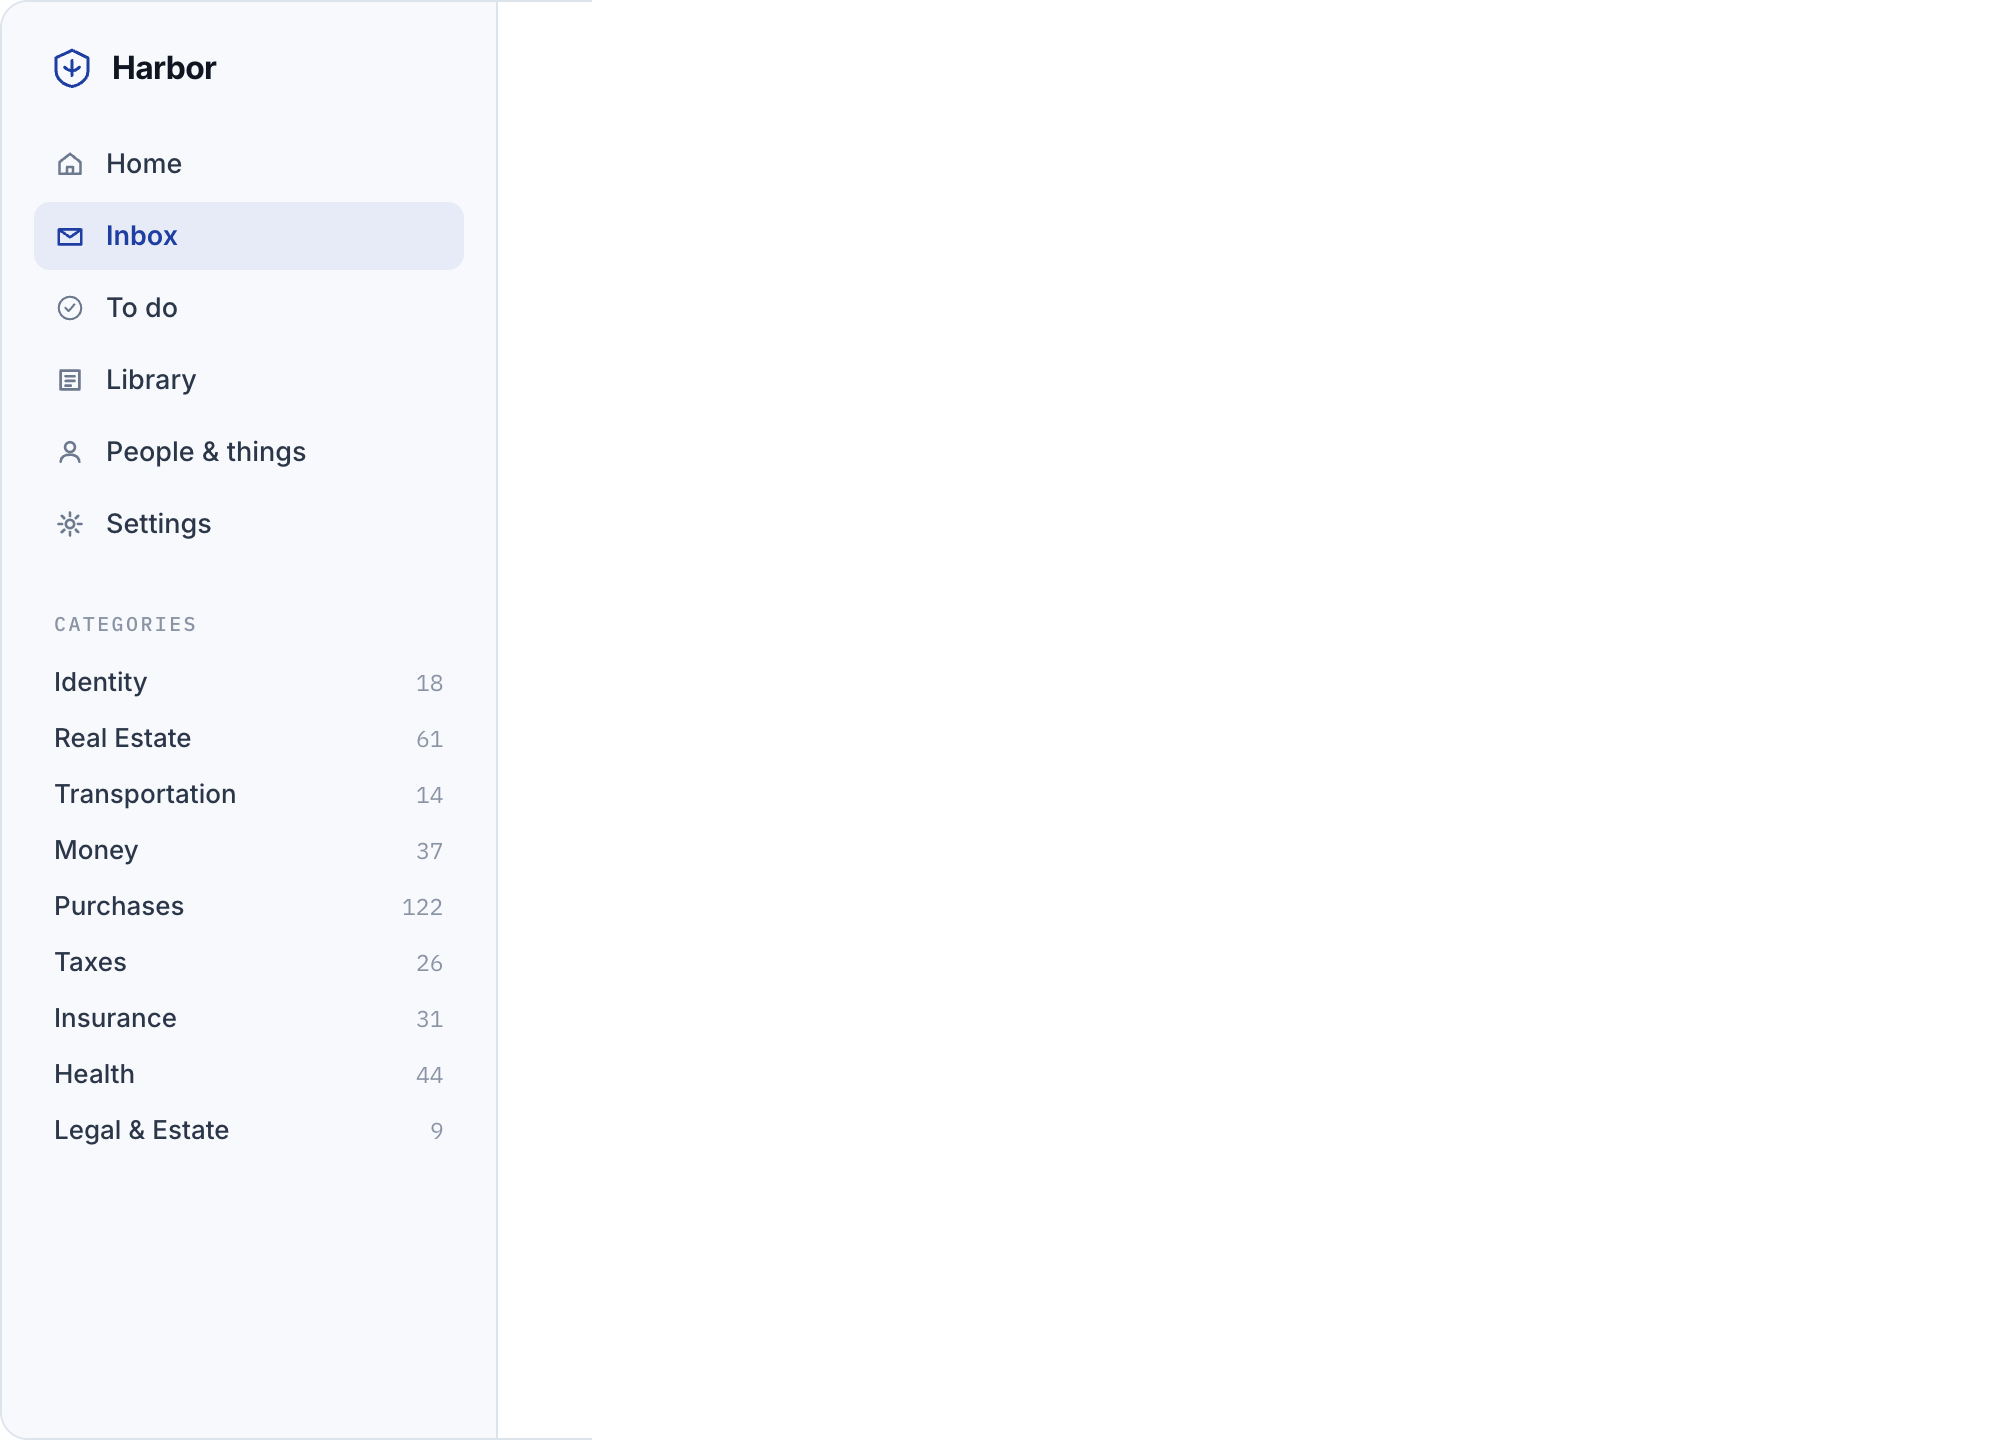
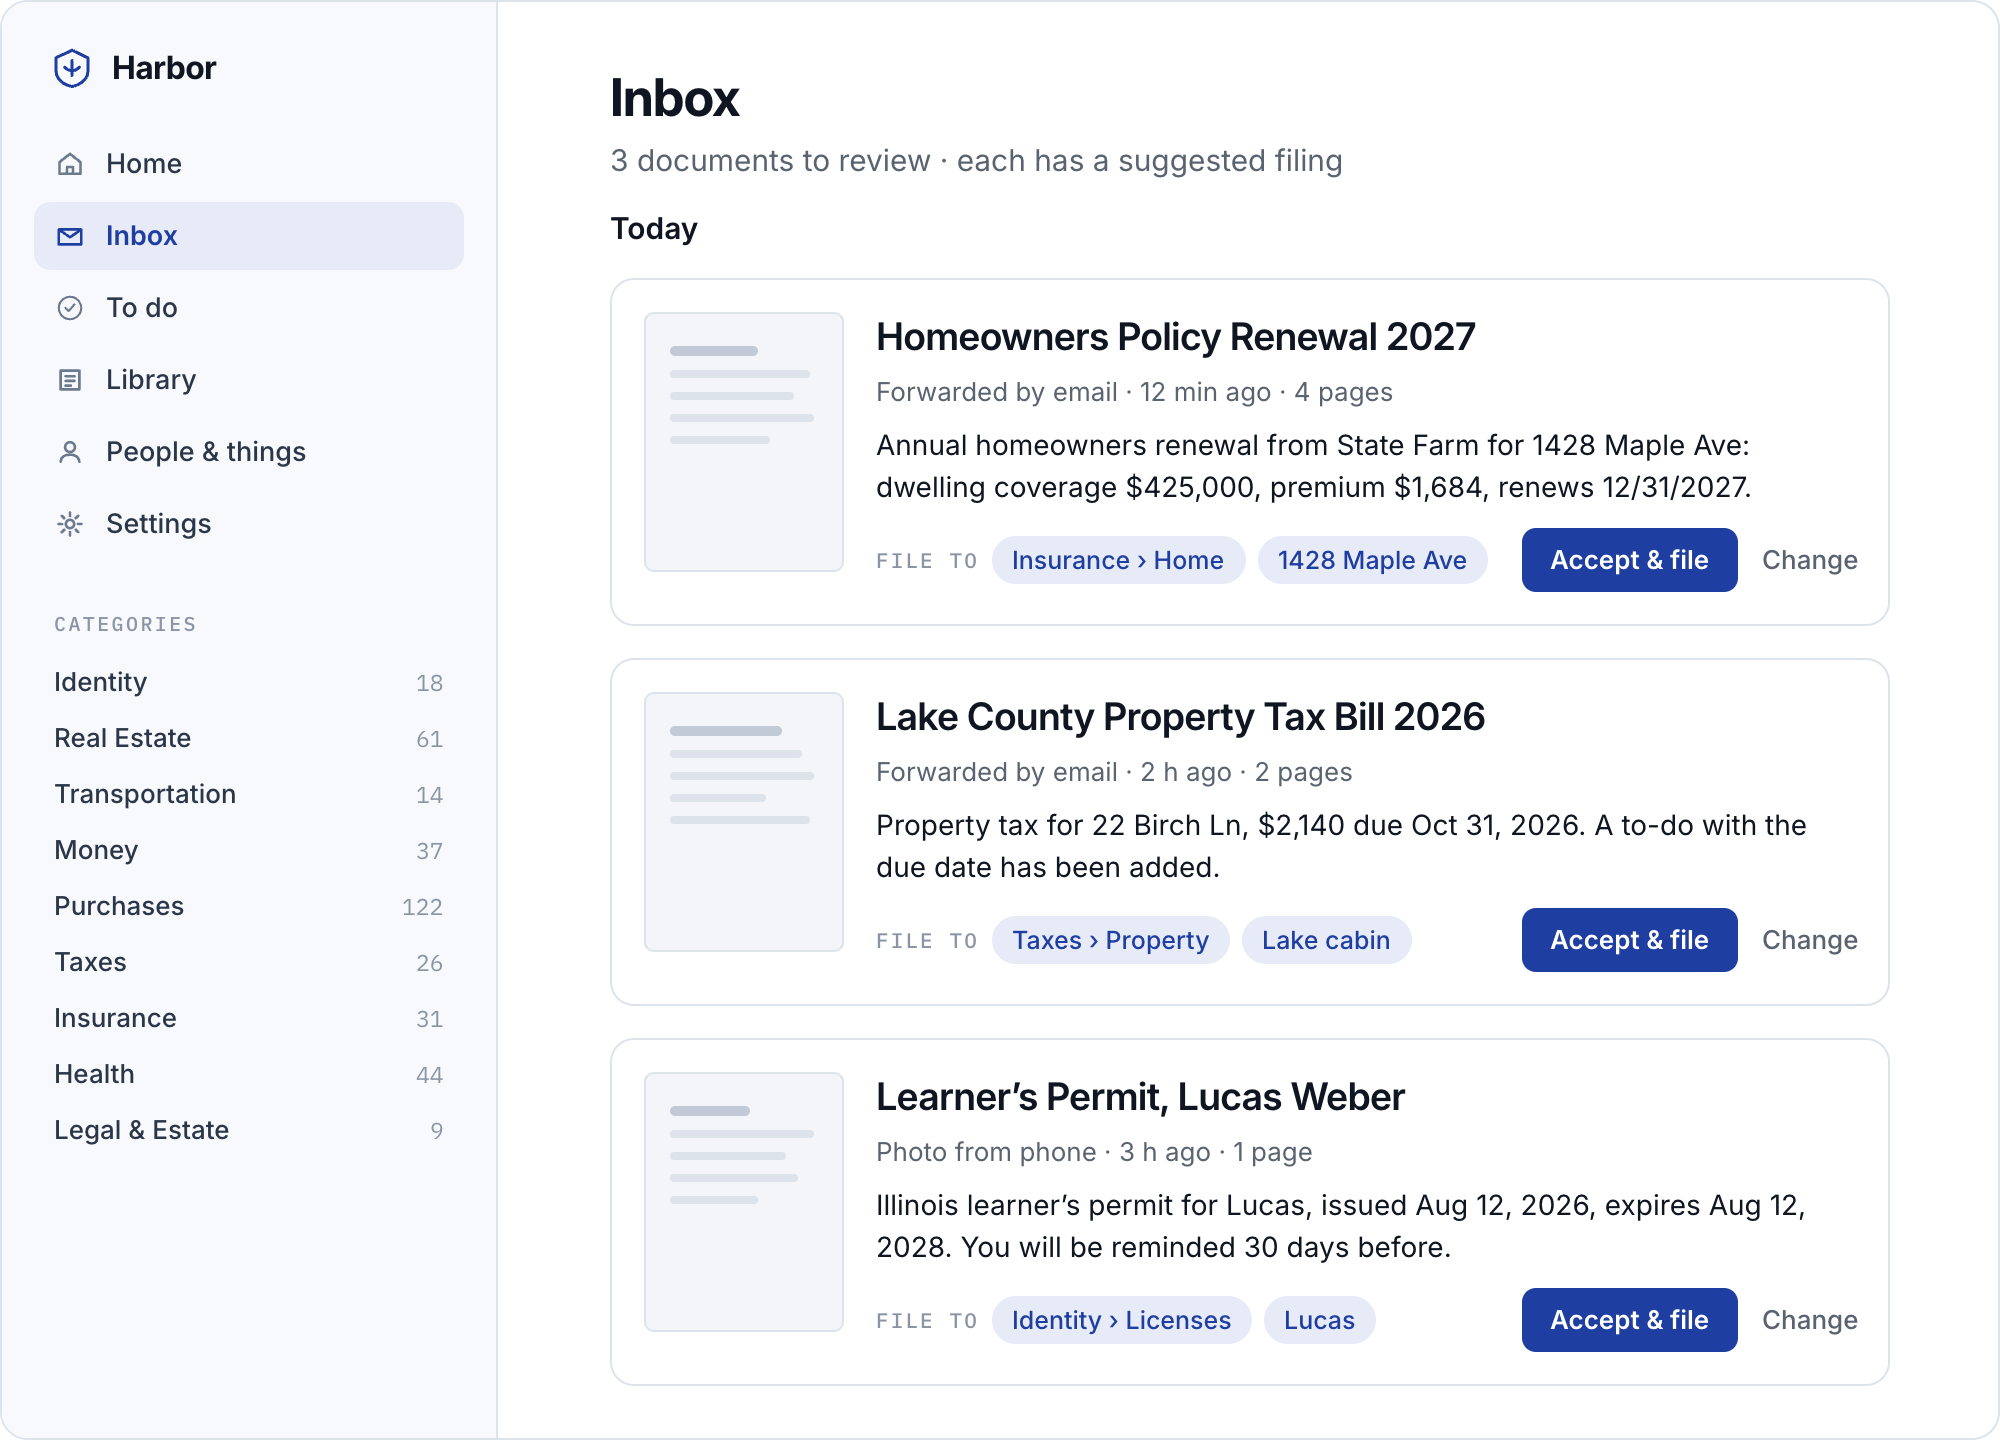
Rebuild the Inbox gallery slide and keep the first slide at the gutter
The Inbox slide had exported with an empty main column; it now shows three items to review, each with a summary and a suggested filing. The carousel's snap points now respect the track padding, so the first slide no longer snaps flush to the left edge.

diff --git a/src/components/Carousel.tsx b/src/components/Carousel.tsx
@@ -108,7 +108,7 @@ export function Carousel() {
 
       <div
         ref={trackRef}
-        className="no-scrollbar gutter flex w-full snap-x snap-mandatory gap-[24px] overflow-x-auto"
+        className="no-scrollbar gutter flex w-full snap-x snap-mandatory gap-[24px] overflow-x-auto [scroll-padding-inline:var(--gutter)]"
         aria-roledescription="carousel"
         aria-label="Screens from Harbor"
       >
